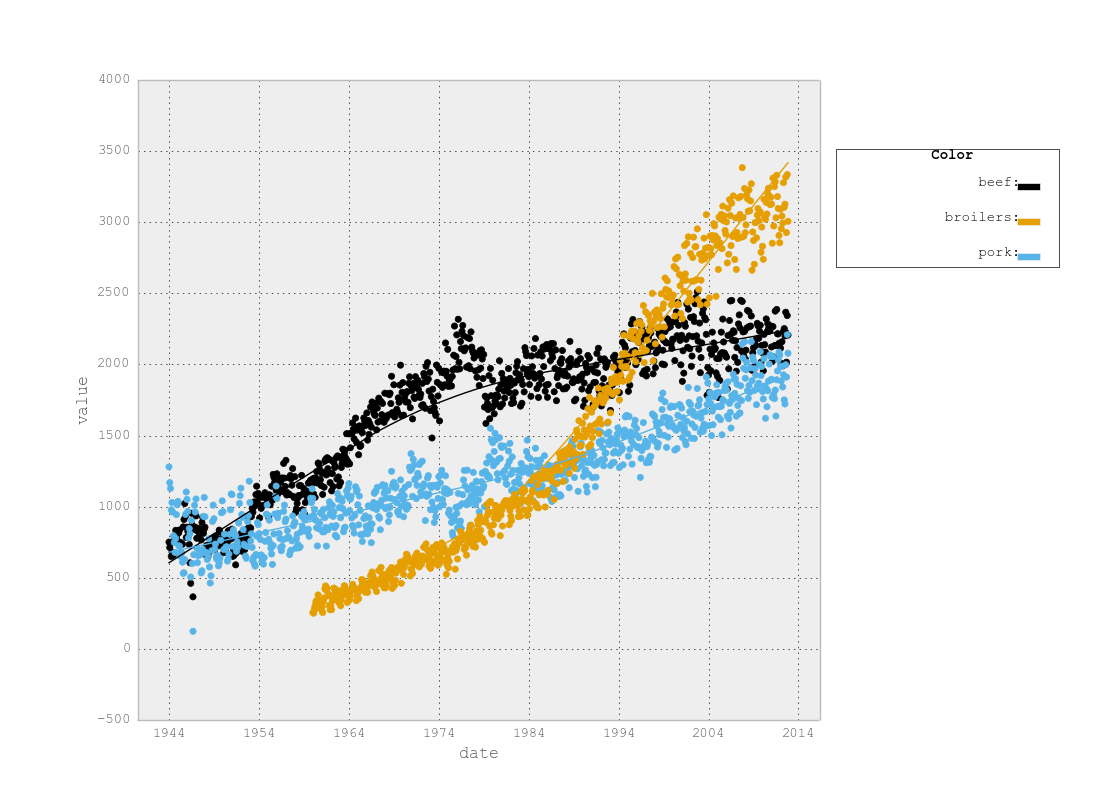
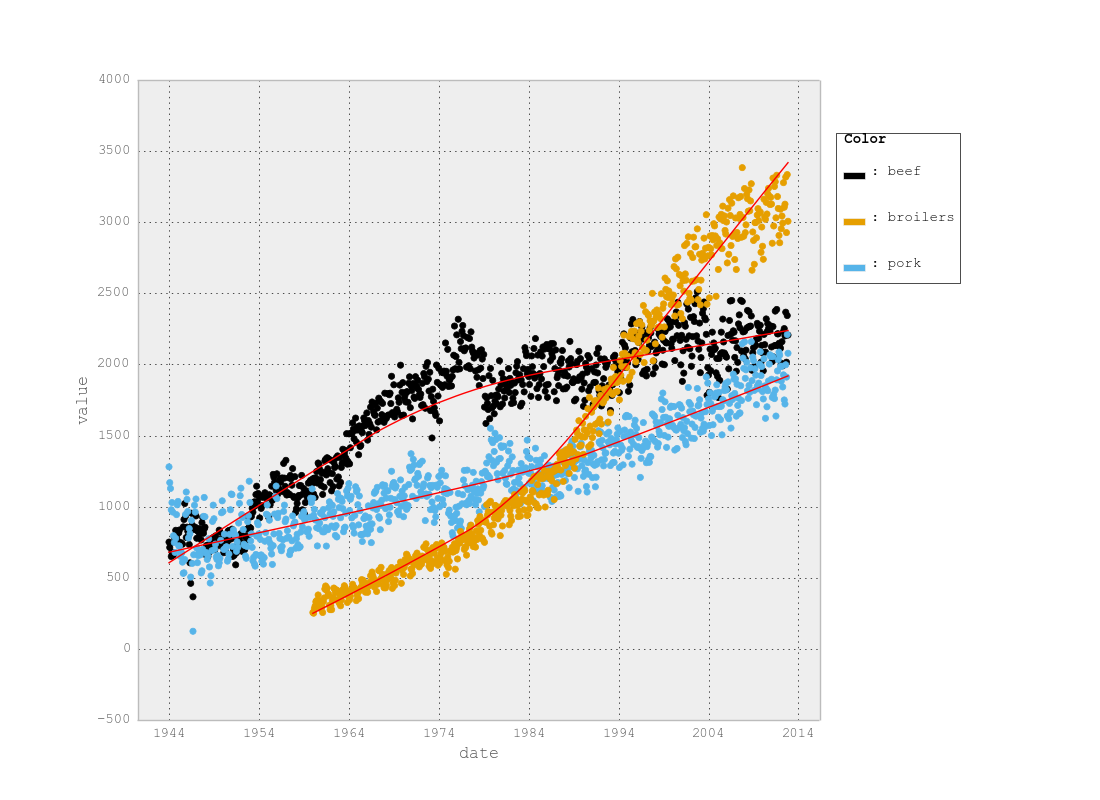
fixing up readme example w/ new legend

diff --git a/README.md b/README.md
@@ -51,7 +51,7 @@ That's it! You're ready to go!
 meat_lng = pd.melt(meat[['date', 'beef', 'pork', 'broilers']], id_vars='date')
 ggplot(aes(x='date', y='value', colour='variable'), data=meat_lng) + \
     geom_point() + \
-    stat_smooth()
+    stat_smooth(color='red')
 ```
 <img src="public/img/ggplot_meat.png">
 
